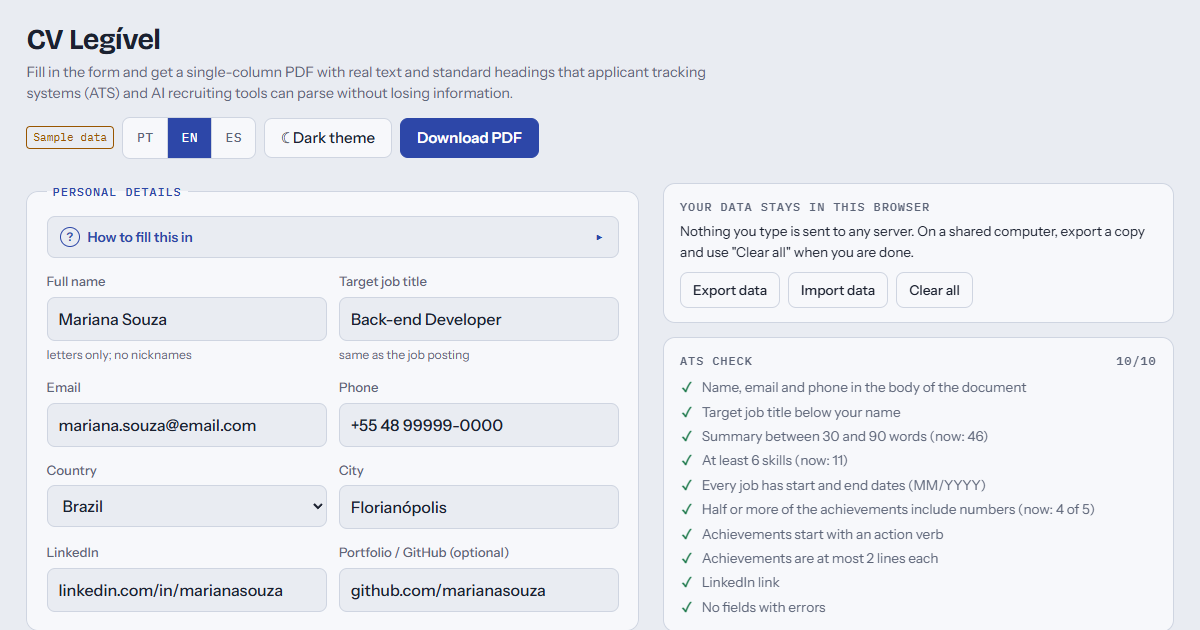
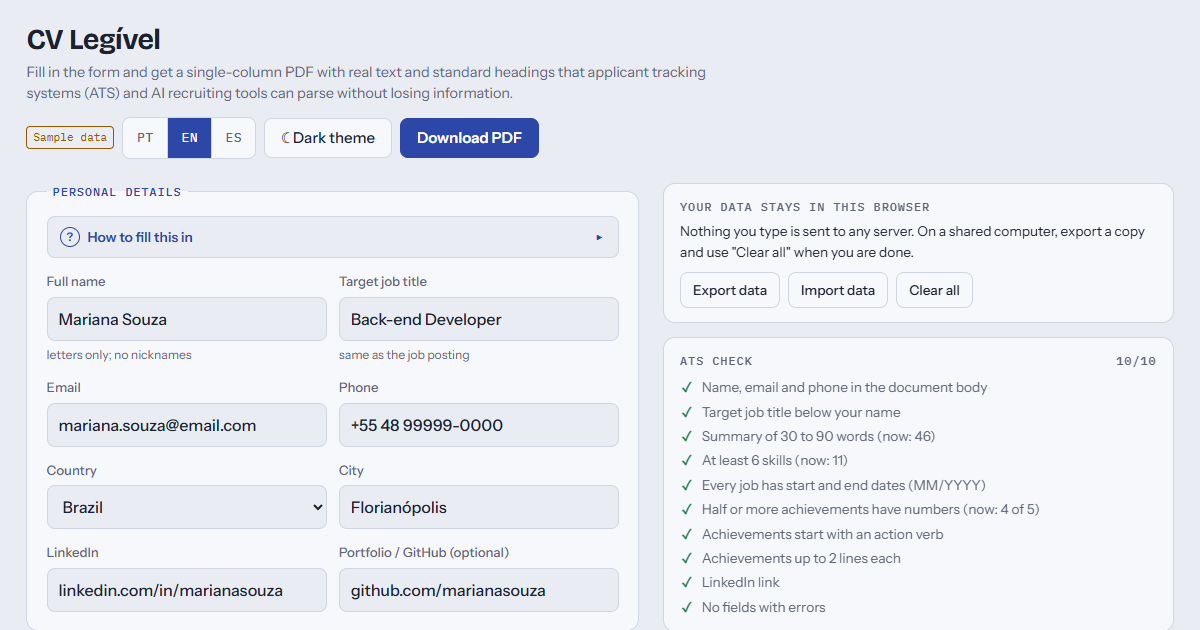
fix: layout igual nos três idiomas e página sempre atualizada
- Service worker confere a página com o servidor (sem a cópia de até
  10 minutos do GitHub Pages) e instala versões novas sem usar o cache
  do navegador; versão v2.2.1.
- Textos encurtados onde quebravam uma linha a mais num idioma
  (subtítulo em espanhol, privacidade, itens da checagem).
- Checagem ATS em uma coluna; campo de texto e lista com a mesma altura.
- Teste de ponta a ponta compara as alturas do topo, dos cartões e do
  formulário nos três idiomas, de 390 a 2560 px.
- Imagens regeradas esperando a lista de cidades.

diff --git a/tests/e2e/layout.spec.js b/tests/e2e/layout.spec.js
@@ -1,0 +1,53 @@
+// O layout é o mesmo nos três idiomas: mesmas alturas do topo, dos cartões e das linhas do
+// formulário, nas larguras mais comuns. Se um texto traduzido ficar longo demais e quebrar
+// uma linha a mais, este teste aponta qual parte mudou.
+import { expect, test } from "@playwright/test";
+
+const PAGES = { pt: "/", en: "/en/", es: "/es/" };
+const WIDTHS = [2560, 1920, 1536, 1440, 1366, 1280, 1024, 980, 768, 390];
+// partes fixas da página; o resumo e as conquistas do exemplo têm tamanhos diferentes em cada idioma
+const PARTS = {
+  topo: "header.top",
+  abas: ".tabs",
+  dadosPessoais: "#form fieldset:nth-of-type(1)",
+  privacidade: ".privacy",
+  checagem: ".checks",
+  vaga: ".job"
+};
+
+async function measure(page, path) {
+  await page.goto(path);
+  await page.waitForFunction(() => document.querySelector("#sheet .nm"));
+  await page.evaluate(() => document.fonts.ready);
+  return page.evaluate(
+    (parts) =>
+      Object.fromEntries(
+        Object.entries(parts).map(([name, sel]) => {
+          const el = document.querySelector(sel);
+          return [name, el?.offsetParent ? Math.round(el.getBoundingClientRect().height) : null];
+        })
+      ),
+    PARTS
+  );
+}
+
+test("o layout tem as mesmas medidas em português, inglês e espanhol", async ({ page }) => {
+  test.setTimeout(90_000);
+  // idioma já escolhido: o aviso de idioma do navegador não aparece e não empurra o topo
+  await page.addInitScript(() => localStorage.setItem("cv-legivel-idioma", "pt"));
+  await page.route("https://servicodados.ibge.gov.br/**", (route) =>
+    route.fulfill({ json: [{ nome: "Florianópolis" }] })
+  );
+  const differences = [];
+  for (const width of WIDTHS) {
+    await page.setViewportSize({ width, height: 900 });
+    const sizes = {};
+    for (const [lang, path] of Object.entries(PAGES)) sizes[lang] = await measure(page, path);
+    for (const part of Object.keys(PARTS)) {
+      const values = Object.values(sizes).map((s) => s[part]);
+      if (new Set(values).size > 1)
+        differences.push(`${width}px ${part}: pt ${values[0]}, en ${values[1]}, es ${values[2]}`);
+    }
+  }
+  expect(differences).toEqual([]);
+});

diff --git a/assets/js/i18n/es.js b/assets/js/i18n/es.js
@@ -23,7 +23,7 @@ export default {
     suggest: "Este sitio también está en español.",
     suggestGo: "Ver en español",
     suggestClose: "Ahora no",
-    sub: "Completa el formulario y genera un PDF de una sola columna, con texto real y títulos estándar, que los sistemas de selección (ATS) y las herramientas de RR. HH. con IA pueden interpretar sin perder información.",
+    sub: "Completa el formulario y genera un PDF de una columna, con texto real y títulos estándar, que los sistemas de selección (ATS) y la IA de RR. HH. leen sin perder información.",
     badge: "Datos de ejemplo",
     langNav: "Idioma",
     pdf: "Generar PDF",
@@ -119,7 +119,7 @@ export default {
 
     privacyTitle: "Tus datos se quedan en este navegador",
     privacyText:
-      'Nada de lo que escribes se envía a servidores. En un ordenador compartido, exporta una copia y usa "Borrar todo" al terminar.',
+      'Nada de lo que escribes va a servidores. En un ordenador compartido, exporta una copia y usa "Borrar todo" al salir.',
     exportBtn: "Exportar datos",
     importBtn: "Importar datos",
     clearBtn: "Borrar todo",
@@ -170,15 +170,15 @@ export default {
 
     checkOk: "Hecho:",
     checkNo: "Pendiente:",
-    cContact: "Nombre, correo y teléfono en el cuerpo del documento",
-    cCargo: "Puesto al que aspiras debajo del nombre",
-    cResumo: "Resumen de entre 30 y 90 palabras (ahora: {n})",
+    cContact: "Nombre, correo y teléfono en el documento",
+    cCargo: "Puesto buscado bajo el nombre",
+    cResumo: "Resumen de 30 a 90 palabras (ahora: {n})",
     cSkills: "Al menos 6 habilidades (ahora: {n})",
     cDates: "Cada experiencia tiene inicio y fin (MM/AAAA)",
-    cNumbers: "La mitad o más de los logros con números",
+    cNumbers: "Mitad o más de los logros con números",
     cNow: "(ahora: {a} de {b})",
     cNone: "(aún no hay logros)",
-    cVerbs: "Los logros empiezan con un verbo de acción",
+    cVerbs: "Logros empiezan con verbo de acción",
     cVerbsFail: "({a} de {b} sin verbo al inicio, ej.: {ex})",
     cLength: "Logros de hasta 2 líneas cada uno",
     cLengthFail: "(largo: {ex})",

diff --git a/sw.js b/sw.js
@@ -1,10 +1,11 @@
 // Service worker: deixa o CV Legível funcionando sem internet depois do primeiro acesso.
-// - Página (HTML): rede primeiro, para receber atualizações; cache se estiver offline.
+// - Página (HTML): rede primeiro, sempre conferindo com o servidor (sem aceitar a cópia de até
+//   10 minutos que o GitHub Pages permite); cache só se estiver offline.
 // - Arquivos do site (CSS, JS, fontes, ícones): cache primeiro, atualizados quando VERSION muda.
 // - Bibliotecas pesadas (jsPDF, pdf.js, fonte Unicode): guardadas no primeiro uso.
 // - Lista de cidades do IBGE: rede primeiro, cache como reserva.
 // Ao mudar qualquer arquivo listado em SHELL, aumente VERSION (o teste unitário confere a lista).
-const VERSION = "v2.2.0";
+const VERSION = "v2.2.1";
 const CACHE = `cv-legivel-${VERSION}`;
 
 const SHELL = [
@@ -53,7 +54,8 @@ self.addEventListener("install", (e) => {
   e.waitUntil(
     caches
       .open(CACHE)
-      .then((c) => c.addAll(SHELL))
+      // cache: "reload" baixa do servidor, nunca do cache do navegador: sem misturar arquivos de versões diferentes
+      .then((c) => c.addAll(SHELL.map((url) => new Request(url, { cache: "reload" }))))
       .then(() => self.skipWaiting())
   );
 });
@@ -69,10 +71,10 @@ self.addEventListener("activate", (e) => {
   );
 });
 
-const networkFirst = async (req) => {
+const networkFirst = async (req, init) => {
   const cache = await caches.open(CACHE);
   try {
-    const res = await fetch(req);
+    const res = await fetch(req, init);
     if (res.ok) cache.put(req, res.clone());
     return res;
   } catch {
@@ -95,6 +97,6 @@ self.addEventListener("fetch", (e) => {
   const url = new URL(req.url);
   if (url.hostname === "servicodados.ibge.gov.br") return e.respondWith(networkFirst(req));
   if (url.origin !== location.origin) return;
-  if (req.mode === "navigate") return e.respondWith(networkFirst(req));
+  if (req.mode === "navigate") return e.respondWith(networkFirst(req, { cache: "no-cache" }));
   e.respondWith(cacheFirst(req));
 });

diff --git a/es/index.html b/es/index.html
@@ -42,7 +42,7 @@
   <header class="top">
     <div>
       <h1>CV Legível</h1>
-      <p class="sub">Completa el formulario y genera un PDF de una sola columna, con texto real y títulos estándar, que los sistemas de selección (ATS) y las herramientas de RR. HH. con IA pueden interpretar sin perder información.</p>
+      <p class="sub">Completa el formulario y genera un PDF de una columna, con texto real y títulos estándar, que los sistemas de selección (ATS) y la IA de RR. HH. leen sin perder información.</p>
     </div>
     <div class="actions">
       <span id="exampleBadge" class="badge" hidden>Datos de ejemplo</span>
@@ -174,7 +174,7 @@ Google Data Analytics Professional Certificate (2023)"></textarea></label>
     <aside id="preview" role="tabpanel" aria-labelledby="tabPreview">
       <section class="card privacy" aria-labelledby="privacyTitle">
         <h2 id="privacyTitle">Tus datos se quedan en este navegador</h2>
-        <p>Nada de lo que escribes se envía a servidores. En un ordenador compartido, exporta una copia y usa &quot;Borrar todo&quot; al terminar.</p>
+        <p>Nada de lo que escribes va a servidores. En un ordenador compartido, exporta una copia y usa &quot;Borrar todo&quot; al salir.</p>
         <div class="card-actions">
           <button type="button" class="btn small" id="exportBtn">Exportar datos</button>
           <button type="button" class="btn small" id="importBtn">Importar datos</button>

diff --git a/assets/js/i18n/en.js b/assets/js/i18n/en.js
@@ -168,17 +168,17 @@ export default {
 
     checkOk: "Done:",
     checkNo: "To do:",
-    cContact: "Name, email and phone in the body of the document",
+    cContact: "Name, email and phone in the document body",
     cCargo: "Target job title below your name",
-    cResumo: "Summary between 30 and 90 words (now: {n})",
+    cResumo: "Summary of 30 to 90 words (now: {n})",
     cSkills: "At least 6 skills (now: {n})",
     cDates: "Every job has start and end dates (MM/YYYY)",
-    cNumbers: "Half or more of the achievements include numbers",
+    cNumbers: "Half or more achievements have numbers",
     cNow: "(now: {a} of {b})",
     cNone: "(no achievements yet)",
     cVerbs: "Achievements start with an action verb",
     cVerbsFail: "({a} of {b} don't start with a verb, e.g., {ex})",
-    cLength: "Achievements are at most 2 lines each",
+    cLength: "Achievements up to 2 lines each",
     cLengthFail: "(too long: {ex})",
     cLinkedin: "LinkedIn link",
     cErrors: "Fields with errors in the form ({n})",

diff --git a/assets/js/i18n/pt.js b/assets/js/i18n/pt.js
@@ -119,7 +119,7 @@ export default {
 
     privacyTitle: "Seus dados ficam neste navegador",
     privacyText:
-      'Nada do que você digita é enviado a servidores. Em computador compartilhado, exporte uma cópia e use "Limpar tudo" ao terminar.',
+      'Nada do que você digita vai para servidores. Em computador compartilhado, exporte uma cópia e use "Limpar tudo" ao sair.',
     exportBtn: "Exportar dados",
     importBtn: "Importar dados",
     clearBtn: "Limpar tudo",
@@ -175,7 +175,7 @@ export default {
     cResumo: "Resumo entre 30 e 90 palavras (agora: {n})",
     cSkills: "Pelo menos 6 habilidades (agora: {n})",
     cDates: "Toda experiência tem início e fim (MM/AAAA)",
-    cNumbers: "Metade ou mais das conquistas com números",
+    cNumbers: "Metade ou mais conquistas com números",
     cNow: "(agora: {a} de {b})",
     cNone: "(nenhuma conquista ainda)",
     cVerbs: "Conquistas começam com verbo de ação",

diff --git a/index.html b/index.html
@@ -174,7 +174,7 @@ Google Data Analytics Professional Certificate (2023)"></textarea></label>
     <aside id="preview" role="tabpanel" aria-labelledby="tabPreview">
       <section class="card privacy" aria-labelledby="privacyTitle">
         <h2 id="privacyTitle">Seus dados ficam neste navegador</h2>
-        <p>Nada do que você digita é enviado a servidores. Em computador compartilhado, exporte uma cópia e use &quot;Limpar tudo&quot; ao terminar.</p>
+        <p>Nada do que você digita vai para servidores. Em computador compartilhado, exporte uma cópia e use &quot;Limpar tudo&quot; ao sair.</p>
         <div class="card-actions">
           <button type="button" class="btn small" id="exportBtn">Exportar dados</button>
           <button type="button" class="btn small" id="importBtn">Importar dados</button>

diff --git a/assets/css/styles.css b/assets/css/styles.css
@@ -236,6 +236,12 @@ select {
   width: 100%;
   min-height: 42px;
 }
+/* campo de texto e lista com a mesma altura: a página em português usa listas (UF, cidade)
+   onde as outras usam campos de texto (cidade), e as linhas do formulário ficam iguais */
+input:not([type="checkbox"]),
+select {
+  height: 44px;
+}
 select {
   padding-right: 8px;
   text-overflow: ellipsis;
@@ -457,8 +463,9 @@ aside {
   margin: 0;
   padding: 0;
   display: grid;
-  grid-template-columns: repeat(auto-fit, minmax(min(100%, 240px), 1fr));
-  gap: 4px 16px;
+  /* uma coluna: cada item tem a largura toda e o cartão não muda de altura conforme o idioma */
+  grid-template-columns: 1fr;
+  gap: 4px;
   font-size: 0.85rem;
 }
 .checks li {

diff --git a/tests/e2e/app.spec.js b/tests/e2e/app.spec.js
@@ -56,7 +56,7 @@ test("página em inglês: interface, exemplo, PDF e nome do arquivo em inglês",
   await expect(page.locator("legend").first()).toHaveText("Personal details");
   await expect(page.locator("#pdfBtn")).toHaveText("Download PDF");
   await expect(page.locator("label", { hasText: "Country" }).locator("select")).toHaveValue("BR");
-  await expect(page.locator("#checkList")).toContainText("Summary between 30 and 90 words");
+  await expect(page.locator("#checkList")).toContainText("Summary of 30 to 90 words");
   const { name, buffer } = await downloadPdf(page);
   expect(name).toBe("Mariana-Souza-Resume.pdf");
   const { text } = await pdfText(buffer);

diff --git a/playwright.config.js b/playwright.config.js
@@ -10,7 +10,7 @@ export default defineConfig({
   reporter: process.env.CI ? [["github"], ["list"]] : "list",
   use: {
     baseURL: "http://127.0.0.1:4173",
-    // navegador em português: a raiz do site não redireciona para /en/ ou /es/ nos testes
+    // navegador em português: a página em português abre sem o aviso de idioma nos testes
     locale: "pt-BR",
     acceptDownloads: true,
     ...(local ? { channel: "chrome" } : {})

diff --git a/tests/unit/i18n.test.js b/tests/unit/i18n.test.js
@@ -32,7 +32,7 @@ test("nenhum texto ficou vazio", () => {
 });
 
 test("t() traduz e preenche parâmetros", () => {
-  assert.equal(t("cResumo", { n: 40 }, "en"), "Summary between 30 and 90 words (now: 40)");
+  assert.equal(t("cResumo", { n: 40 }, "en"), "Summary of 30 to 90 words (now: 40)");
   assert.equal(t("mod.hibrido", {}, "es"), "Híbrido");
   assert.equal(t("chave-que-nao-existe", {}, "en"), "chave-que-nao-existe");
 });

diff --git a/README.md b/README.md
@@ -97,7 +97,7 @@ Não há variáveis de ambiente nem segredos.
 | Camada | O que cobre | Ferramenta |
 | --- | --- | --- |
 | Unitários (54) | Máscaras e datas, validação e migração do rascunho, modelo do currículo, checagem ATS, comparação com a vaga, regras dos campos, **traduções (mesmas chaves nos três idiomas, nenhum texto vazio, plural)**, regras por idioma (acentos, nomes e cursos em inglês, LinkedIn com prefixo de país, verbos no passado e no presente, palavras comuns da vaga em espanhol), rascunho por idioma, cópia e importação entre idiomas e consistência do projeto (páginas e manifestos em dia com o modelo, versões em `assets/vendor`, lista offline do `sw.js`, CSP) | `node --test` |
-| Ponta a ponta (21) | Abre o site num navegador real, preenche o formulário, **gera o PDF e confere o texto extraído dele** (ordem das seções, links, fonte Unicode), páginas em inglês e espanhol, aviso de idioma do navegador, cópia do rascunho e importação entre idiomas, validações, exportar/importar, rascunho corrompido, abas no celular e **acessibilidade (axe, WCAG 2.1 AA) nas três páginas, nos dois temas** | Playwright + pdf.js + axe-core |
+| Ponta a ponta (22) | Abre o site num navegador real, preenche o formulário, **gera o PDF e confere o texto extraído dele** (ordem das seções, links, fonte Unicode), páginas em inglês e espanhol, aviso de idioma do navegador, cópia do rascunho e importação entre idiomas, validações, exportar/importar, rascunho corrompido, abas no celular, **mesmo layout nos três idiomas** (alturas do topo, dos cartões e das linhas do formulário em larguras de 390 a 2560 px) e **acessibilidade (axe, WCAG 2.1 AA) nas três páginas, nos dois temas** | Playwright + pdf.js + axe-core |
 
 O [CI no GitHub Actions](.github/workflows/ci.yml) roda em todo push e pull request na `main` e na `develop`, em dois jobs:
 
